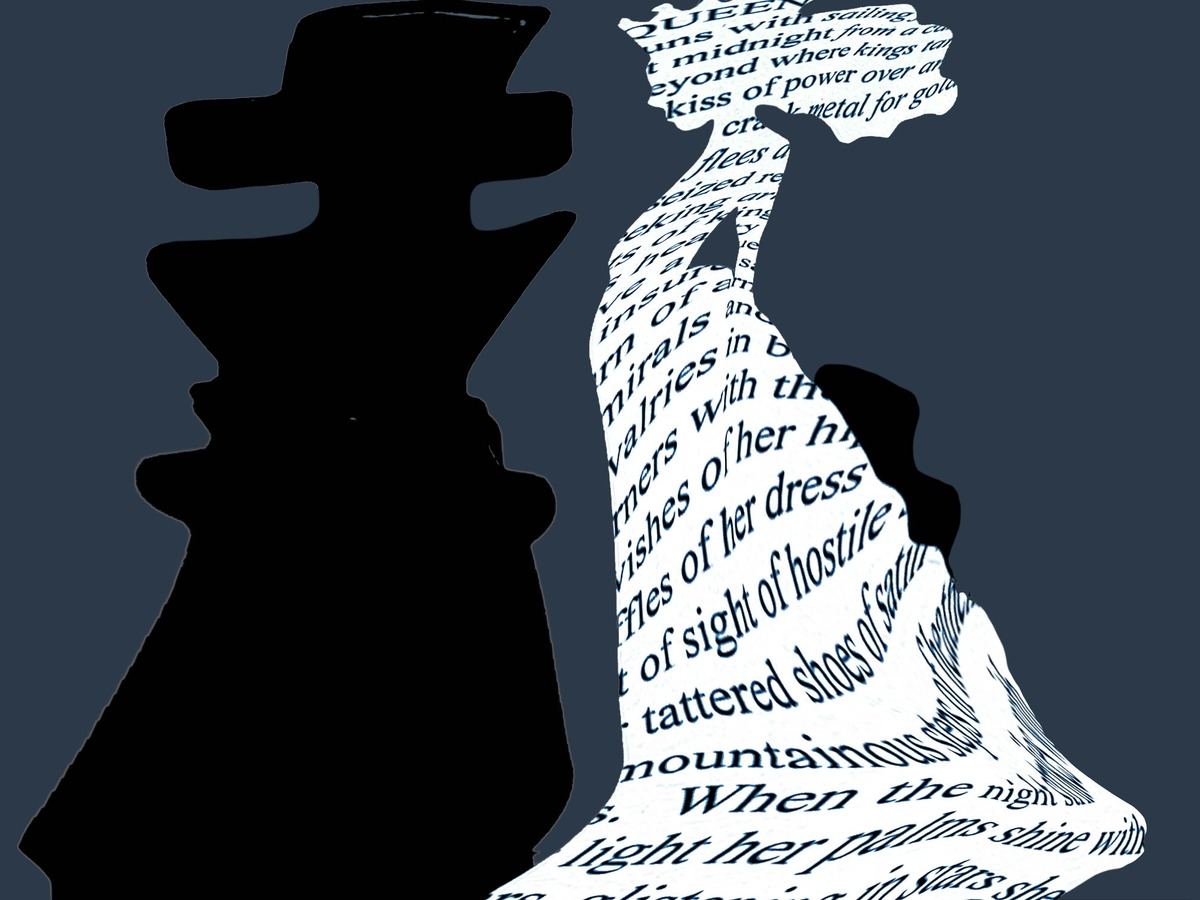
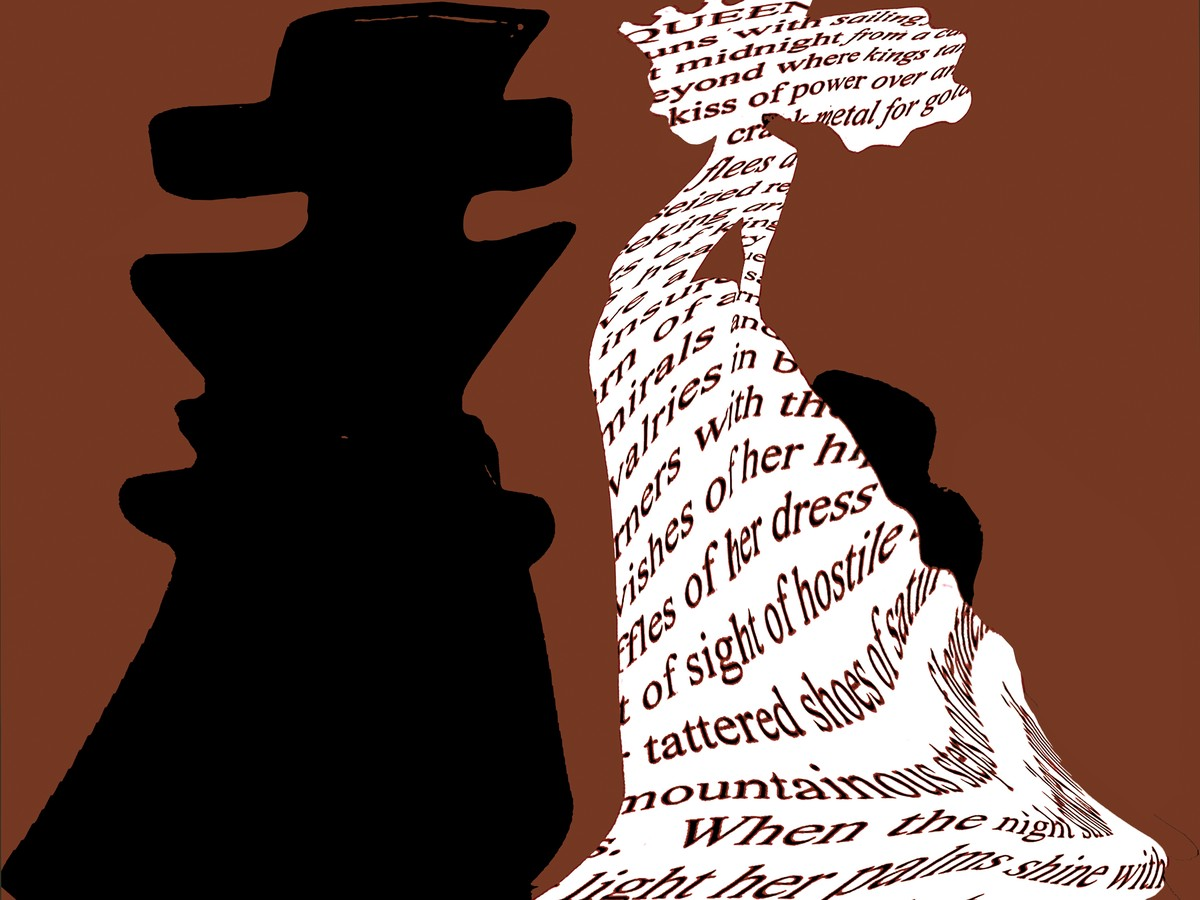
Hero: swap in Susan's revised word-figure artwork (ANN-COVER-REV.png)
Per Susan's 'use this one' -- replaces the Chess-Ann photograph with
her own revised illustration: the same black chess-piece silhouette +
text-figure queen, now on a warm brown/terracotta background instead
of the original's deep navy (the darkness that prompted the OG-image
swap earlier today).

Master (ANN-COVER-REV.png, 3945x3364) added to public/images/brand/.
Re-exported all three responsive crops from it, same filenames so no
other references change:
- desktop (1600x1231) and tablet (1200x900): full width kept (both
  figures intact), symmetric top/bottom trim to match each box's
  aspect ratio.
- mobile (800x1000, portrait): the master has zero margin on every
  edge, so a true portrait crop can't fit both figures without
  cutting one in half -- cropped to the queen figure alone (matching
  the existing object-position: 70% center convention, which already
  favored her over the chess piece at narrow widths), anchored to the
  top of that region so the 'QUEEN' crown text stays fully in frame.

page.tsx: alt text updated (no longer a photograph) and the <img>
height attribute corrected to the new desktop export's actual
1600x1231 (was 1600x1100). .hero's align-items: center (set earlier
today per 'center align vertically the hero image') is unchanged and
already applies to this new image.

diff --git a/src/app/page.tsx b/src/app/page.tsx
@@ -526,14 +526,37 @@ export default function HomePage() {
                 site's --deep navy (#1C2B3A) in her own edit
                 (Chess-Ann.jpg.png, full-res 3934x3269). Desktop cropped
                 to match .hero__media's actual rendered aspect (~1.3:1)
-                so object-fit: cover doesn't re-crop further. */}
+                so object-fit: cover doesn't re-crop further.
+
+                2026-09-01, per Susan's "I can fix that in the hero
+                image" directive (background darkness -- see globals.css'
+                own og-hero.jpg/og-logo.png history for the related OG-
+                image fix): superseded. Susan supplied a revised master
+                (ANN-COVER-REV.png, brown/terracotta background in place
+                of the original's deep navy, same black chess-piece +
+                text-figure-queen illustration) and said "use this one."
+                All three exported files (chess-ann-hero-desktop.jpg,
+                -mobile.jpg, -tablet.jpg) are re-cropped from that master,
+                same technique as before -- desktop/tablet keep the full
+                width (both figures intact) with a symmetric top/bottom
+                trim to match each box's aspect ratio; mobile crops to
+                just the queen figure (the master has zero margin on any
+                edge, so a true portrait crop of both figures side by
+                side isn't possible without cutting one in half -- this
+                matches the existing object-position: 70% center
+                convention below, which already favored the queen over
+                the chess piece at narrow widths). Same filenames, so no
+                other reference changes. Height attribute updated to
+                match the new desktop export's actual 1600x1231 (was
+                1600x1100, sized for the old photo's own crop). Alt text
+                updated -- this is no longer a photograph. */}
             {/* eslint-disable-next-line @next/next/no-img-element */}
             <img
               src="/images/brand/chess-ann-hero-desktop.jpg"
-              alt="Queen Ann — a painted figure standing within a symbolic narrative, central to the AwakenArts identity"
+              alt="A black chess-piece silhouette beside a queen figure formed from the words of her own story -- the AwakenArts word-figure illustration"
               className="hero__img"
               width={1600}
-              height={1100}
+              height={1231}
               loading="eager"
               decoding="async"
             />
